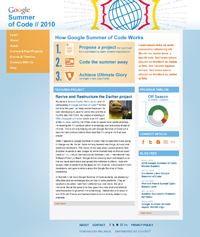
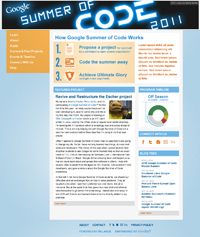
Add new mockups version 2-22

Changed region(s): [[0.0, 0.0, 1.0, 0.1477]]

diff --git a/mockups/homepage.html b/mockups/homepage.html
@@ -21,8 +21,7 @@
 <div id="page-header">
     <div class="container_12">
         <div class="grid_12">
-            <a href="homepage.html"><img src="images/google.png" height="40" width="114" alt="Google" /></a>
-            <p><a href="homepage.html">Summer<br />of Code // 2011</a></p>
+            <a href="homepage.html"><img src="images/logo-banner.jpg" height="156" width="924" alt="Google Summer of Code" /></a>
         </div>
     </div>
 </div>
@@ -94,7 +93,7 @@
                 </div>
                 <!-- .home-block-1 -->
                 
-                <div id="apply-students" class="content_column_1">
+                <div class="content_column_1">
                     <!-- begin block -->
                     <div id="apply-students" class="block block-students">
                         <img src="images/students-apply-now.jpg" height="107" width="429" alt="" id="block-apply-students-image" />
@@ -131,13 +130,13 @@
                     <div id="program-map" class="block block-project-timeline">
                         <h4 id="title-section-program-timeline">Program Timeline</h4>
                         <div id="block-program-timeline-content" class="block-content">
-                            <img id="program-timeline" src="images/image-map-student-apps.png" usemap="#program-timeline" width="210" height="169" alt="" />
+                            <img id="program-timeline" src="images/image-map-student-apps.png" usemap="#program-timeline" width="210" height="181" alt="" />
                             <map id="_program-timeline" name="program-timeline">
-                            <area shape="poly" coords="75,105,52,105,55,87,69,66,93,54,119,55,138,66,149,78,129,90,118,79,99,76,85,82,77,95," href="javascript:void(0)" alt="On Season" title="On Season" onmouseover="if(document.images) document.getElementById('program-timeline').src= 'images/image-map-on-season.png';" onMouseOut="if(document.images) document.getElementById('program-timeline').src= 'images/image-map-student-apps.png';" />
-                            <area shape="poly" coords="130,90,150,80,157,106,133,106," href="javascript:void(0)" alt="Students Applications" title="Students Coding" onmouseover="if(document.images) document.getElementById('program-timeline').src= 'images/image-map-student-apps.png';" onMouseOut="if(document.images) document.getElementById('program-timeline').src= 'images/image-map-student-apps.png';" />
-                            <area shape="poly" coords="131,121,136,106,157,107,151,133," href="javascript:void(0)" alt="Organization Applications" title="Organization Applications" onmouseover="if(document.images) document.getElementById('program-timeline').src= 'images/image-map-org-apps.png';" onMouseOut="if(document.images) document.getElementById('program-timeline').src= 'images/image-map-student-apps.png';" />
-                            <area shape="poly" coords="120,131,130,122,149,134,130,150," href="javascript:void(0)" alt="Kickoff" title="Kickoff" onmouseover="if(document.images) document.getElementById('program-timeline').src= 'images/image-map-kickoff.png';" onMouseOut="if(document.images) document.getElementById('program-timeline').src= 'images/image-map-student-apps.png';" />
-                            <area shape="poly" coords="119,132,129,151,103,157,83,152,65,138,55,121,53,106,75,106,81,126,101,135," href="javascript:void(0)" alt="Off Season" title="Off Season" onmouseover="if(document.images) document.getElementById('program-timeline').src= 'images/image-map-off-season.png';" onMouseOut="if(document.images) document.getElementById('program-timeline').src= 'images/image-map-student-apps.png';" />
+                            <area shape="poly" coords="45,113,56,79,78,60,107,55,134,63,155,84,133,98,118,82,94,79,77,93,72,114," href="javascript:void(0)" alt="On Season" title="On Season" onMouseOver="if(document.images) document.getElementById('program-timeline').src= 'images/image-map-on-season.png';" onMouseOut="if(document.images) document.getElementById('program-timeline').src= 'images/image-map-student-apps.png';" />
+                            <area shape="poly" coords="133,98,143,90,155,84,162,98,164,114,136,114," href="javascript:void(0)" alt="Students Applications" title="Students Applications" onMouseOver="if(document.images) document.getElementById('program-timeline').src= 'images/image-map-student-apps.png';" onMouseOut="if(document.images) document.getElementById('program-timeline').src= 'images/image-map-student-apps.png';" />
+                            <area shape="poly" coords="132,130,137,114,164,114,163,130,156,145,143,137" href="javascript:void(0)" alt="Organization Applications" title="Organization Applications" onMouseOver="if(document.images) document.getElementById('program-timeline').src= 'images/image-map-org-apps.png';" onMouseOut="if(document.images) document.getElementById('program-timeline').src= 'images/image-map-student-apps.png';" />
+                            <area shape="poly" coords="120,142,134,131,155,143,147,156,133,165," href="javascript:void(0)" alt="Kickoff" title="Kickoff" onMouseOver="if(document.images) document.getElementById('program-timeline').src= 'images/image-map-kickoff.png';" onMouseOut="if(document.images) document.getElementById('program-timeline').src= 'images/image-map-student-apps.png';" />
+                            <area shape="poly" coords="45,113,72,113,79,138,105,147,121,141,134,164,100,169,72,161,55,143,48,129," href="javascript:void(0)" alt="Off Season" title="Off Season" onMouseOver="if(document.images) document.getElementById('program-timeline').src= 'images/image-map-off-season.png';" onMouseOut="if(document.images) document.getElementById('program-timeline').src= 'images/image-map-student-apps.png';" />
                             </map>
                         </div>
                     </div>

diff --git a/mockups/homepage-offseason.html b/mockups/homepage-offseason.html
@@ -21,8 +21,7 @@
 <div id="page-header">
     <div class="container_12">
         <div class="grid_12">
-            <a href="homepage.html"><img src="images/google.png" height="40" width="114" alt="Google" /></a>
-            <p><a href="homepage.html">Summer<br />of Code // 2011</a></p>
+            <a href="homepage-offseason.html"><img src="images/logo-banner.jpg" height="156" width="924" alt="Google Summer of Code" /></a>
         </div>
     </div>
 </div>
@@ -135,13 +134,13 @@
                     <div id="program-map" class="block block-project-timeline">
                         <h4 id="title-section-program-timeline">Program Timeline</h4>
                         <div id="block-program-timeline-content" class="block-content">
-                            <img id="program-timeline" src="images/image-map-off-season.png" usemap="#program-timeline" width="210" height="169" alt="" />
+                            <img id="program-timeline" src="images/image-map-off-season.png" usemap="#program-timeline" width="210" height="181" alt="" />
                             <map id="_program-timeline" name="program-timeline">
-                            <area shape="poly" coords="75,105,52,105,55,87,69,66,93,54,119,55,138,66,149,78,129,90,118,79,99,76,85,82,77,95," href="javascript:void(0)" alt="On Season" title="On Season" onmouseover="if(document.images) document.getElementById('program-timeline').src= 'images/image-map-on-season.png';" onMouseOut="if(document.images) document.getElementById('program-timeline').src= 'images/image-map-off-season.png';" />
-                            <area shape="poly" coords="130,90,150,80,157,106,133,106," href="javascript:void(0)" alt="Student Applications" title="Student Applications" onmouseover="if(document.images) document.getElementById('program-timeline').src= 'images/image-map-student-apps.png';" onMouseOut="if(document.images) document.getElementById('program-timeline').src= 'images/image-map-off-season.png';" />
-                            <area shape="poly" coords="131,121,136,106,157,107,151,133," href="javascript:void(0)" alt="Organization Applications" title="Organization Applications" onmouseover="if(document.images) document.getElementById('program-timeline').src= 'images/image-map-org-apps.png';" onMouseOut="if(document.images) document.getElementById('program-timeline').src= 'images/image-map-off-season.png';" />
-                            <area shape="poly" coords="120,131,130,122,149,134,130,150," href="javascript:void(0)" alt="Kickoff" title="Kickoff" onmouseover="if(document.images) document.getElementById('program-timeline').src= 'images/image-map-kickoff.png';" onMouseOut="if(document.images) document.getElementById('program-timeline').src= 'images/image-map-off-season.png';" />
-                            <area shape="poly" coords="119,132,129,151,103,157,83,152,65,138,55,121,53,106,75,106,81,126,101,135," href="javascript:void(0)" alt="Off Season" title="Off Season" onmouseover="if(document.images) document.getElementById('program-timeline').src= 'images/image-map-off-season.png';" onMouseOut="if(document.images) document.getElementById('program-timeline').src= 'images/image-map-off-season.png';" />
+                            <area shape="poly" coords="45,113,56,79,78,60,107,55,134,63,155,84,133,98,118,82,94,79,77,93,72,114," href="javascript:void(0)" alt="On Season" title="On Season" onMouseOver="if(document.images) document.getElementById('program-timeline').src= 'images/image-map-on-season.png';" onMouseOut="if(document.images) document.getElementById('program-timeline').src= 'images/image-map-off-season.png';" />
+                            <area shape="poly" coords="133,98,143,90,155,84,162,98,164,114,136,114," href="javascript:void(0)" alt="Students Applications" title="Students Applications" onMouseOver="if(document.images) document.getElementById('program-timeline').src= 'images/image-map-student-apps.png';" onMouseOut="if(document.images) document.getElementById('program-timeline').src= 'images/image-map-off-season.png';" />
+                            <area shape="poly" coords="132,130,137,114,164,114,163,130,156,145,143,137" href="javascript:void(0)" alt="Organization Applications" title="Organization Applications" onMouseOver="if(document.images) document.getElementById('program-timeline').src= 'images/image-map-org-apps.png';" onMouseOut="if(document.images) document.getElementById('program-timeline').src= 'images/image-map-off-season.png';" />
+                            <area shape="poly" coords="120,142,134,131,155,143,147,156,133,165," href="javascript:void(0)" alt="Kickoff" title="Kickoff" onMouseOver="if(document.images) document.getElementById('program-timeline').src= 'images/image-map-kickoff.png';" onMouseOut="if(document.images) document.getElementById('program-timeline').src= 'images/image-map-off-season.png';" />
+                            <area shape="poly" coords="45,113,72,113,79,138,105,147,121,141,134,164,100,169,72,161,55,143,48,129," href="javascript:void(0)" alt="Off Season" title="Off Season" onMouseOver="if(document.images) document.getElementById('program-timeline').src= 'images/image-map-off-season.png';" onMouseOut="if(document.images) document.getElementById('program-timeline').src= 'images/image-map-off-season.png';" />
                             </map>
                         </div>
                     </div>

diff --git a/mockups/homepage-mentor.html b/mockups/homepage-mentor.html
@@ -21,8 +21,7 @@
 <div id="page-header">
     <div class="container_12">
         <div class="grid_12">
-            <a href="homepage.html"><img src="images/google.png" height="40" width="114" alt="Google" /></a>
-            <p><a href="homepage.html">Summer<br />of Code // 2011</a></p>
+            <a href="homepage-mentor.html"><img src="images/logo-banner.jpg" height="156" width="924" alt="Google Summer of Code" /></a>
         </div>
     </div>
 </div>
@@ -144,13 +143,13 @@
                     <div id="program-map" class="block block-project-timeline">
                         <h4 id="title-section-program-timeline">Program Timeline</h4>
                         <div id="block-program-timeline-content" class="block-content">
-                            <img id="program-timeline" src="images/image-map-org-apps.png" usemap="#program-timeline" width="210" height="169" alt="" />
+                            <img id="program-timeline" src="images/image-map-org-apps.png" usemap="#program-timeline" width="210" height="181" alt="" />
                             <map id="_program-timeline" name="program-timeline">
-                            <area shape="poly" coords="75,105,52,105,55,87,69,66,93,54,119,55,138,66,149,78,129,90,118,79,99,76,85,82,77,95," href="javascript:void(0)" alt="On Season" title="On Season" onmouseover="if(document.images) document.getElementById('program-timeline').src= 'images/image-map-on-season.png';" onMouseOut="if(document.images) document.getElementById('program-timeline').src= 'images/image-map-org-apps.png';" />
-                            <area shape="poly" coords="130,90,150,80,157,106,133,106," href="javascript:void(0)" alt="Student Applications" title="Student Applications" onmouseover="if(document.images) document.getElementById('program-timeline').src= 'images/image-map-student-apps.png';" onMouseOut="if(document.images) document.getElementById('program-timeline').src= 'images/image-map-org-apps.png';" />
-                            <area shape="poly" coords="131,121,136,106,157,107,151,133," href="javascript:void(0)" alt="Organization Applications" title="Organization Applications" onmouseover="if(document.images) document.getElementById('program-timeline').src= 'images/image-map-org-apps.png';" onMouseOut="if(document.images) document.getElementById('program-timeline').src= 'images/image-map-org-apps.png';" />
-                            <area shape="poly" coords="120,131,130,122,149,134,130,150," href="javascript:void(0)" alt="Kickoff" title="Kickoff" onmouseover="if(document.images) document.getElementById('program-timeline').src= 'images/image-map-kickoff.png';" onMouseOut="if(document.images) document.getElementById('program-timeline').src= 'images/image-map-org-apps.png';" />
-                            <area shape="poly" coords="119,132,129,151,103,157,83,152,65,138,55,121,53,106,75,106,81,126,101,135," href="javascript:void(0)" alt="Off Season" title="Off Season" onmouseover="if(document.images) document.getElementById('program-timeline').src= 'images/image-map-off-season.png';" onMouseOut="if(document.images) document.getElementById('program-timeline').src= 'images/image-map-org-apps.png';" />
+                            <area shape="poly" coords="45,113,56,79,78,60,107,55,134,63,155,84,133,98,118,82,94,79,77,93,72,114," href="javascript:void(0)" alt="On Season" title="On Season" onMouseOver="if(document.images) document.getElementById('program-timeline').src= 'images/image-map-on-season.png';" onMouseOut="if(document.images) document.getElementById('program-timeline').src= 'images/image-map-org-apps.png';" />
+                            <area shape="poly" coords="133,98,143,90,155,84,162,98,164,114,136,114," href="javascript:void(0)" alt="Students Applications" title="Students Applications" onMouseOver="if(document.images) document.getElementById('program-timeline').src= 'images/image-map-student-apps.png';" onMouseOut="if(document.images) document.getElementById('program-timeline').src= 'images/image-map-org-apps.png';" />
+                            <area shape="poly" coords="132,130,137,114,164,114,163,130,156,145,143,137" href="javascript:void(0)" alt="Organization Applications" title="Organization Applications" onMouseOver="if(document.images) document.getElementById('program-timeline').src= 'images/image-map-org-apps.png';" onMouseOut="if(document.images) document.getElementById('program-timeline').src= 'images/image-map-org-apps.png';" />
+                            <area shape="poly" coords="120,142,134,131,155,143,147,156,133,165," href="javascript:void(0)" alt="Kickoff" title="Kickoff" onMouseOver="if(document.images) document.getElementById('program-timeline').src= 'images/image-map-kickoff.png';" onMouseOut="if(document.images) document.getElementById('program-timeline').src= 'images/image-map-org-apps.png';" />
+                            <area shape="poly" coords="45,113,72,113,79,138,105,147,121,141,134,164,100,169,72,161,55,143,48,129," href="javascript:void(0)" alt="Off Season" title="Off Season" onMouseOver="if(document.images) document.getElementById('program-timeline').src= 'images/image-map-off-season.png';" onMouseOut="if(document.images) document.getElementById('program-timeline').src= 'images/image-map-org-apps.png';" />
                             </map>
                         </div>
                     </div>

diff --git a/mockups/homepage-orgs.html b/mockups/homepage-orgs.html
@@ -21,8 +21,7 @@
 <div id="page-header">
     <div class="container_12">
         <div class="grid_12">
-            <a href="homepage.html"><img src="images/google.png" height="40" width="114" alt="Google" /></a>
-            <p><a href="homepage.html">Summer<br />of Code // 2011</a></p>
+            <a href="homepage-orgs.html"><img src="images/logo-banner.jpg" height="156" width="924" alt="Google Summer of Code" /></a>
         </div>
     </div>
 </div>
@@ -133,13 +132,13 @@
                     <div id="program-map" class="block block-project-timeline">
                         <h4 id="title-section-program-timeline">Program Timeline</h4>
                         <div id="block-program-timeline-content" class="block-content">
-                            <img id="program-timeline" src="images/image-map-org-apps.png" usemap="#program-timeline" width="210" height="169" alt="" />
+                            <img id="program-timeline" src="images/image-map-org-apps.png" usemap="#program-timeline" width="210" height="181" alt="" />
                             <map id="_program-timeline" name="program-timeline">
-                            <area shape="poly" coords="75,105,52,105,55,87,69,66,93,54,119,55,138,66,149,78,129,90,118,79,99,76,85,82,77,95," href="javascript:void(0)" alt="On Season" title="On Season" onmouseover="if(document.images) document.getElementById('program-timeline').src= 'images/image-map-on-season.png';" onMouseOut="if(document.images) document.getElementById('program-timeline').src= 'images/image-map-org-apps.png';" />
-                            <area shape="poly" coords="130,90,150,80,157,106,133,106," href="javascript:void(0)" alt="Student Applications" title="Student Applications" onmouseover="if(document.images) document.getElementById('program-timeline').src= 'images/image-map-student-apps.png';" onMouseOut="if(document.images) document.getElementById('program-timeline').src= 'images/image-map-org-apps.png';" />
-                            <area shape="poly" coords="131,121,136,106,157,107,151,133," href="javascript:void(0)" alt="Organization Applications" title="Organization Applications" onmouseover="if(document.images) document.getElementById('program-timeline').src= 'images/image-map-org-apps.png';" onMouseOut="if(document.images) document.getElementById('program-timeline').src= 'images/image-map-org-apps.png';" />
-                            <area shape="poly" coords="120,131,130,122,149,134,130,150," href="javascript:void(0)" alt="Kickoff" title="Kickoff" onmouseover="if(document.images) document.getElementById('program-timeline').src= 'images/image-map-kickoff.png';" onMouseOut="if(document.images) document.getElementById('program-timeline').src= 'images/image-map-org-apps.png';" />
-                            <area shape="poly" coords="119,132,129,151,103,157,83,152,65,138,55,121,53,106,75,106,81,126,101,135," href="javascript:void(0)" alt="Off Season" title="Off Season" onmouseover="if(document.images) document.getElementById('program-timeline').src= 'images/image-map-off-season.png';" onMouseOut="if(document.images) document.getElementById('program-timeline').src= 'images/image-map-org-apps.png';" />
+                            <area shape="poly" coords="45,113,56,79,78,60,107,55,134,63,155,84,133,98,118,82,94,79,77,93,72,114," href="javascript:void(0)" alt="On Season" title="On Season" onMouseOver="if(document.images) document.getElementById('program-timeline').src= 'images/image-map-on-season.png';" onMouseOut="if(document.images) document.getElementById('program-timeline').src= 'images/image-map-org-apps.png';" />
+                            <area shape="poly" coords="133,98,143,90,155,84,162,98,164,114,136,114," href="javascript:void(0)" alt="Students Applications" title="Students Applications" onMouseOver="if(document.images) document.getElementById('program-timeline').src= 'images/image-map-student-apps.png';" onMouseOut="if(document.images) document.getElementById('program-timeline').src= 'images/image-map-org-apps.png';" />
+                            <area shape="poly" coords="132,130,137,114,164,114,163,130,156,145,143,137" href="javascript:void(0)" alt="Organization Applications" title="Organization Applications" onMouseOver="if(document.images) document.getElementById('program-timeline').src= 'images/image-map-org-apps.png';" onMouseOut="if(document.images) document.getElementById('program-timeline').src= 'images/image-map-org-apps.png';" />
+                            <area shape="poly" coords="120,142,134,131,155,143,147,156,133,165," href="javascript:void(0)" alt="Kickoff" title="Kickoff" onMouseOver="if(document.images) document.getElementById('program-timeline').src= 'images/image-map-kickoff.png';" onMouseOut="if(document.images) document.getElementById('program-timeline').src= 'images/image-map-org-apps.png';" />
+                            <area shape="poly" coords="45,113,72,113,79,138,105,147,121,141,134,164,100,169,72,161,55,143,48,129," href="javascript:void(0)" alt="Off Season" title="Off Season" onMouseOver="if(document.images) document.getElementById('program-timeline').src= 'images/image-map-off-season.png';" onMouseOut="if(document.images) document.getElementById('program-timeline').src= 'images/image-map-org-apps.png';" />
                             </map>
                         </div>
                     </div>

diff --git a/mockups/jqgrid.html b/mockups/jqgrid.html
@@ -34,39 +34,7 @@
     <script src="js/grid.locale-en.js" type="text/javascript"></script>
     <script src="js/jquery.jqGrid.min.js" type="text/javascript"></script>
     <script type="text/javascript">
-
-		jQuery(document).ready(function() {
-			jQuery("#list4").jqGrid({
-				datatype: "local",
-				height: 250,
-			   	colNames:['Inv No','Date', 'Client', 'Amount','Tax','Total','Notes'],
-			   	colModel:[
-			   		{name:'id',index:'id', width:60, sorttype:"int"},
-			   		{name:'invdate',index:'invdate', width:90, sorttype:"date"},
-			   		{name:'name',index:'name', width:100},
-			   		{name:'amount',index:'amount', width:80, align:"right",sorttype:"float"},
-			   		{name:'tax',index:'tax', width:80, align:"right",sorttype:"float"},		
-			   		{name:'total',index:'total', width:80,align:"right",sorttype:"float"},		
-			   		{name:'note',index:'note', width:150, sortable:false}		
-			   	],
-			   	multiselect: true,
-			   	caption: "Manipulating Array Data"
-			});
-			var mydata = [
-					{id:"1",invdate:"2007-10-01",name:"test",note:"note",amount:"200.00",tax:"10.00",total:"210.00"},
-					{id:"2",invdate:"2007-10-02",name:"test2",note:"note2",amount:"300.00",tax:"20.00",total:"320.00"},
-					{id:"3",invdate:"2007-09-01",name:"test3",note:"note3",amount:"400.00",tax:"30.00",total:"430.00"},
-					{id:"4",invdate:"2007-10-04",name:"test",note:"note",amount:"200.00",tax:"10.00",total:"210.00"},
-					{id:"5",invdate:"2007-10-05",name:"test2",note:"note2",amount:"300.00",tax:"20.00",total:"320.00"},
-					{id:"6",invdate:"2007-09-06",name:"test3",note:"note3",amount:"400.00",tax:"30.00",total:"430.00"},
-					{id:"7",invdate:"2007-10-04",name:"test",note:"note",amount:"200.00",tax:"10.00",total:"210.00"},
-					{id:"8",invdate:"2007-10-03",name:"test2",note:"note2",amount:"300.00",tax:"20.00",total:"320.00"},
-					{id:"9",invdate:"2007-09-01",name:"test3",note:"note3",amount:"400.00",tax:"30.00",total:"430.00"}
-					];
-			for(var i=0;i<=mydata.length;i++)
-				jQuery("#list4").jqGrid('addRowData',i+1,mydata[i]);			
-		})
-
+        jQuery("#list4").jqGrid({ datatype: "local", height: 250, colNames:['Inv No','Date', 'Client', 'Amount','Tax','Total','Notes'], colModel:[ {name:'id',index:'id', width:60, sorttype:"int"}, {name:'invdate',index:'invdate', width:90, sorttype:"date"}, {name:'name',index:'name', width:100}, {name:'amount',index:'amount', width:80, align:"right",sorttype:"float"}, {name:'tax',index:'tax', width:80, align:"right",sorttype:"float"}, {name:'total',index:'total', width:80,align:"right",sorttype:"float"}, {name:'note',index:'note', width:150, sortable:false} ], multiselect: true, caption: "Manipulating Array Data" }); var mydata = [ {id:"1",invdate:"2007-10-01",name:"test",note:"note",amount:"200.00",tax:"10.00",total:"210.00"}, {id:"2",invdate:"2007-10-02",name:"test2",note:"note2",amount:"300.00",tax:"20.00",total:"320.00"}, {id:"3",invdate:"2007-09-01",name:"test3",note:"note3",amount:"400.00",tax:"30.00",total:"430.00"}, {id:"4",invdate:"2007-10-04",name:"test",note:"note",amount:"200.00",tax:"10.00",total:"210.00"}, {id:"5",invdate:"2007-10-05",name:"test2",note:"note2",amount:"300.00",tax:"20.00",total:"320.00"}, {id:"6",invdate:"2007-09-06",name:"test3",note:"note3",amount:"400.00",tax:"30.00",total:"430.00"}, {id:"7",invdate:"2007-10-04",name:"test",note:"note",amount:"200.00",tax:"10.00",total:"210.00"}, {id:"8",invdate:"2007-10-03",name:"test2",note:"note2",amount:"300.00",tax:"20.00",total:"320.00"}, {id:"9",invdate:"2007-09-01",name:"test3",note:"note3",amount:"400.00",tax:"30.00",total:"430.00"} ]; for(var i=0;i<=mydata.length;i++) jQuery("#list4").jqGrid('addRowData',i+1,mydata[i]); 
     </script>
     <!-- 
     ////////////////////////
@@ -86,8 +54,7 @@
 <div id="page-header">
     <div class="container_12">
         <div class="grid_12">
-            <a href="homepage.html"><img src="images/google.png" height="40" width="114" alt="Google" /></a>
-            <p><a href="homepage.html">Summer<br />of Code // 2011</a></p>
+            <a href="homepage.html"><img src="images/logo-banner.jpg" height="156" width="924" alt="Google Summer of Code" /></a>
         </div>
     </div>
 </div>

diff --git a/mockups/dashboard-student.html b/mockups/dashboard-student.html
@@ -71,8 +71,7 @@
 <div id="page-header">
     <div class="container_12">
         <div class="grid_12">
-            <a href="homepage.html"><img src="images/google.png" height="40" width="114" alt="Google" /></a>
-            <p><a href="homepage.html">Summer<br />of Code // 2011</a></p>
+            <a href="homepage.html"><img src="images/logo-banner.jpg" height="156" width="924" alt="Google Summer of Code" /></a>
         </div>
     </div>
 </div>
@@ -130,7 +129,8 @@
                     <strong>ALERT:</strong> Your evaluations of your students are due in <strong>3 days</strong>.
                 </div>
                 
-                <h1 id="main-page-title">Alicia Thomson’s Dashboard</h1>
+                <h1 id="main-page-title" class="dashboard-title">Alicia Thomson’s Dashboard</h1>
+                <p id="user-logged-in">You are logged in as socstudent@gmail.com. <a href="javascript:void(0)">(Not you?)</a></p>
                 
                 <!-- begin block -->
                 <div id="proposals" class="block">

diff --git a/mockups/dashboard-admin.html b/mockups/dashboard-admin.html
@@ -72,8 +72,7 @@
 <div id="page-header">
     <div class="container_12">
         <div class="grid_12">
-            <a href="homepage.html"><img src="images/google.png" height="40" width="114" alt="Google" /></a>
-            <p><a href="homepage.html">Summer<br />of Code // 2011</a></p>
+            <a href="homepage.html"><img src="images/logo-banner.jpg" height="156" width="924" alt="Google Summer of Code" /></a>
         </div>
     </div>
 </div>
@@ -127,7 +126,8 @@
                     <strong>ALERT:</strong> Your evaluations of your students are due in <strong>3 days</strong>.
                 </div>
                 
-                <h1 id="main-page-title">Eric Schmidt's Dashboard</h1>
+                <h1 id="main-page-title" class="dashboard-title">Eric Schmidt's Dashboard</h1>
+                <p id="user-logged-in">You are logged in as socstudent@gmail.com. <a href="javascript:void(0)">(Not you?)</a></p>
                 
                 <!-- begin block -->
                 <div id="proposals" class="block">

diff --git a/mockups/dashboard.html b/mockups/dashboard.html
@@ -71,8 +71,7 @@
 <div id="page-header">
     <div class="container_12">
         <div class="grid_12">
-            <a href="homepage.html"><img src="images/google.png" height="40" width="114" alt="Google" /></a>
-            <p><a href="homepage.html">Summer<br />of Code // 2011</a></p>
+            <a href="homepage.html"><img src="images/logo-banner.jpg" height="156" width="924" alt="Google Summer of Code" /></a>
         </div>
     </div>
 </div>
@@ -126,7 +125,8 @@
                     <strong>ALERT:</strong> Your evaluations of your students are due in <strong>3 days</strong>.
                 </div>
                 
-                <h1 id="main-page-title">Eric Schmidt's Dashboard</h1>
+                <h1 id="main-page-title" class="dashboard-title">Eric Schmidt's Dashboard</h1>
+                <p id="user-logged-in">You are logged in as socstudent@gmail.com. <a href="javascript:void(0)">(Not you?)</a></p>
                 
                 <!-- begin block -->
                 <div id="proposals" class="block">

diff --git a/mockups/css/structure.less b/mockups/css/structure.less
@@ -33,12 +33,8 @@
     background: #fff url(../images/header-bg.png) bottom left repeat-x;
     height: 156px;
     width: 100%;
-    .grid_12 {/*globe*/
-        background:url(../images/header-globe.gif) bottom right no-repeat;
+    .grid_12 {
         height: 156px;
-    }
-    img {
-        margin: 35px 0 0 10px;
     }
     h1, p {
         color: @lightblue;
@@ -165,9 +161,9 @@
         width: 429px;
         
         .block-students {/*students apply now block*/
-            background:url(../images/home-block-students-bg.gif) 0 0 no-repeat;
+            background:url(../images/home-block-students-bg.gif) 0 0 repeat-y;
             color: #004371;
-            padding-bottom: 15px;
+            padding-bottom: 5px;
             text-align: center;
             
             h3 {

diff --git a/mockups/css/structure.css b/mockups/css/structure.css
@@ -27,13 +27,7 @@
   width: 100%;
 }
 #page-header .grid_12 {
-  /*globe*/
-
-  background: url(../images/header-globe.gif) bottom right no-repeat;
   height: 156px;
-}
-#page-header img {
-  margin: 35px 0 0 10px;
 }
 #page-header h1, #page-header p {
   color: #238bd2;
@@ -172,9 +166,9 @@
 #main .content_column_1 .block-students {
   /*students apply now block*/
 
-  background: url(../images/home-block-students-bg.gif) 0 0 no-repeat;
+  background: url(../images/home-block-students-bg.gif) 0 0 repeat-y;
   color: #004371;
-  padding-bottom: 15px;
+  padding-bottom: 5px;
   text-align: center;
 }
 #main .content_column_1 .block-students h3 {

diff --git a/mockups/jqueryui.html b/mockups/jqueryui.html
@@ -117,8 +117,7 @@
 <div id="page-header">
     <div class="container_12">
         <div class="grid_12">
-            <a href="homepage.html"><img src="images/google.png" height="40" width="114" alt="Google" /></a>
-            <p><a href="homepage.html">Summer<br />of Code // 2011</a></p>
+            <a href="homepage.html"><img src="images/logo-banner.jpg" height="156" width="924" alt="Google Summer of Code" /></a>
         </div>
     </div>
 </div>

diff --git a/mockups/appform.html b/mockups/appform.html
@@ -66,8 +66,7 @@
 <div id="page-header">
     <div class="container_12">
         <div class="grid_12">
-            <a href="homepage.html"><img src="images/google.png" height="40" width="114" alt="Google" /></a>
-            <p><a href="homepage.html">Summer<br />of Code // 2011</a></p>
+            <a href="homepage.html"><img src="images/logo-banner.jpg" height="156" width="924" alt="Google Summer of Code" /></a>
         </div>
     </div>
 </div>
